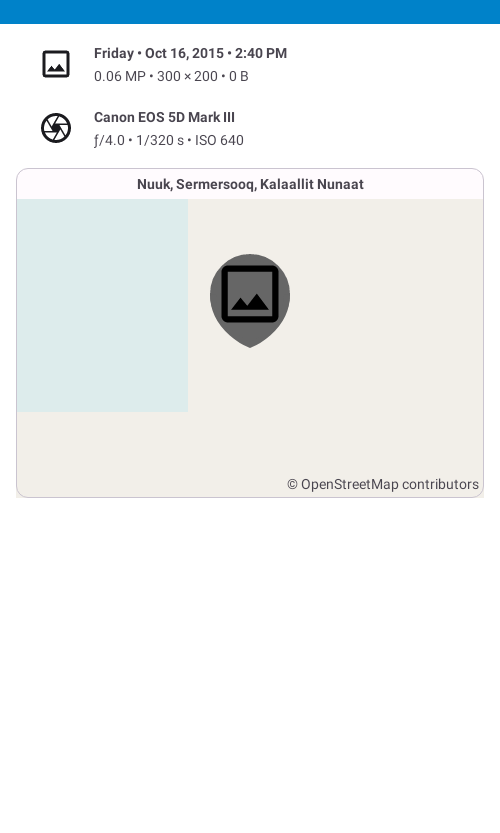
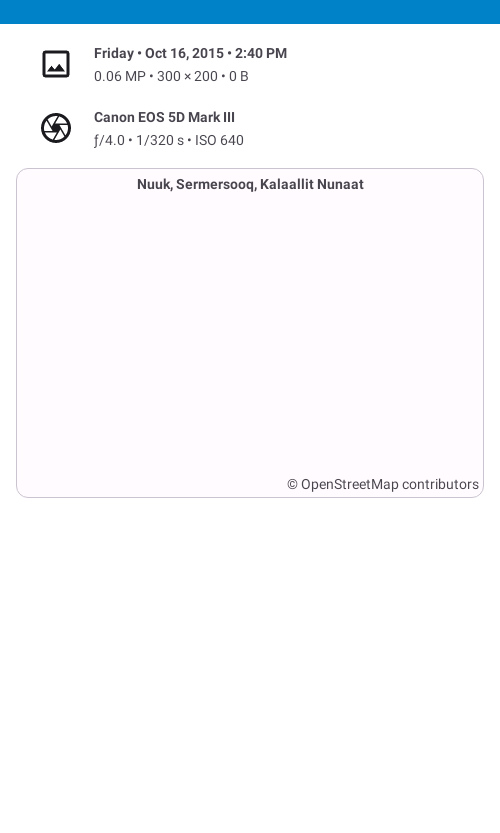
make tests more robust

Changed region(s): [[0.03, 0.2185, 0.39, 0.4994], [0.42, 0.2809, 0.6, 0.437]]

diff --git a/app/src/androidTest/java/com/owncloud/android/ui/fragment/FileDetailFragmentStaticServerIT.kt b/app/src/androidTest/java/com/owncloud/android/ui/fragment/FileDetailFragmentStaticServerIT.kt
@@ -73,14 +73,19 @@ class FileDetailFragmentStaticServerIT : AbstractIT() {
     @Test
     @ScreenshotTest
     fun showFileDetailDetailsFragment() {
-        val sut = testActivityRule.launchActivity(null)
-        sut.addFragment(ImageDetailFragment.newInstance(oCFile, user))
+        val activity = testActivityRule.launchActivity(null)
+        val sut = ImageDetailFragment.newInstance(oCFile, user)
+        activity.addFragment(sut)
 
+        shortSleep()
+        shortSleep()
         waitForIdleSync()
-        shortSleep()
-        shortSleep()
-        shortSleep()
-        screenshot(sut)
+
+        activity.runOnUiThread {
+            sut.hideMap()
+        }
+
+        screenshot(activity)
     }
 
     @Test
@@ -182,6 +187,7 @@ class FileDetailFragmentStaticServerIT : AbstractIT() {
         waitForIdleSync()
 
         activity.runOnUiThread {
+            sut.fileDetailActivitiesFragment.disableLoadingActivities()
             sut
                 .fileDetailActivitiesFragment
                 .setErrorContent(targetContext.resources.getString(R.string.file_detail_activity_error))

diff --git a/app/src/main/java/com/nextcloud/ui/ImageDetailFragment.kt b/app/src/main/java/com/nextcloud/ui/ImageDetailFragment.kt
@@ -49,6 +49,7 @@ import kotlinx.coroutines.Dispatchers
 import kotlinx.coroutines.launch
 import kotlinx.coroutines.withContext
 import kotlinx.parcelize.Parcelize
+import org.jetbrains.annotations.VisibleForTesting
 import org.osmdroid.config.Configuration
 import org.osmdroid.tileprovider.tilesource.TileSourceFactory
 import org.osmdroid.util.GeoPoint
@@ -258,6 +259,11 @@ class ImageDetailFragment : Fragment(), Injectable {
 
         // add copyright notice
         binding.imageLocationMapCopyright.text = binding.imageLocationMap.tileProvider.tileSource.copyrightNotice
+    }
+
+    @VisibleForTesting
+    fun hideMap() {
+        binding.imageLocationMap.visibility = View.GONE
     }
 
     @SuppressLint("SimpleDateFormat")

diff --git a/app/src/main/java/com/owncloud/android/ui/fragment/FileDetailActivitiesFragment.java b/app/src/main/java/com/owncloud/android/ui/fragment/FileDetailActivitiesFragment.java
@@ -284,6 +284,10 @@ public class FileDetailActivitiesFragment extends Fragment implements
             });
             return;
         }
+        
+        if (!isLoadingActivities) {
+            return;
+        }
 
         Thread t = new Thread(() -> {
             try {
@@ -453,6 +457,11 @@ public class FileDetailActivitiesFragment extends Fragment implements
     @Override
     public boolean shouldCallGeneratedCallback(String tag, Object callContext) {
         return false;
+    }
+    
+    @VisibleForTesting
+    public void disableLoadingActivities() {
+        isLoadingActivities = false;
     }
 
     private static class SubmitCommentTask extends AsyncTask<Void, Void, Boolean> {
